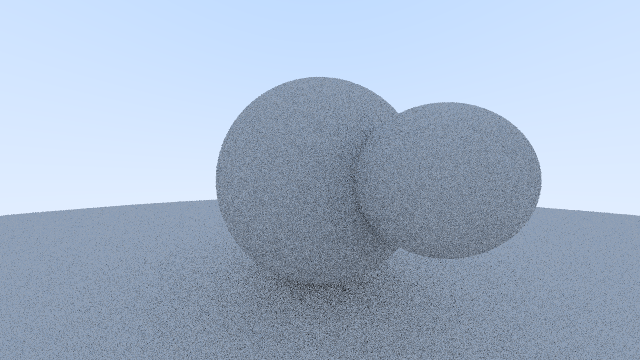
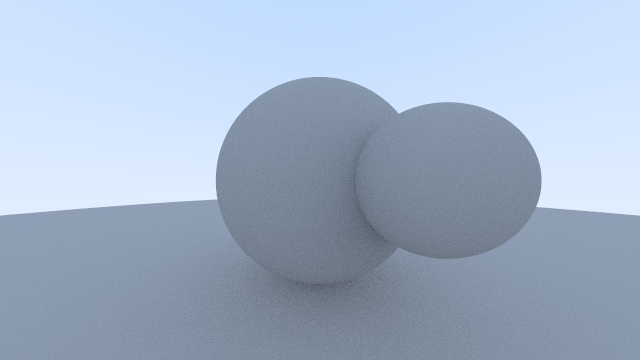
small fixes

diff --git a/source/main.cpp b/source/main.cpp
@@ -9,54 +9,17 @@
 #include "yaml-cpp/yaml.h"
 #include "camera.h"
 
-glm::vec3 random_in_unit_sphere() {
-    while (true) {
-        glm::vec3 p = random_vec3(-1,1);
-        if (glm::dot(p,p) >= 1) continue;
-        return p;
-    }
-
-}
-glm::vec3 random_unit_vector() {
-    //unit vector in glm
-    return glm::normalize(random_in_unit_sphere());
-}
-
-glm::vec3 random_in_hemisphere(const glm::vec3& normal) {
-    glm::vec3 in_unit_sphere = random_in_unit_sphere();
-    if (dot(in_unit_sphere, normal) > 0.0) // In the same hemisphere as the normal
-        return in_unit_sphere;
-    else
-        return -in_unit_sphere;
-}
 
 class RayTracer {
 public:
-    RayTracer(int width, float aspect_ratio)
-        : width(width){
+    RayTracer(int width, float aspect_ratio,int max_depth,int samples_per_pixel)
+        : width(width),max_depth(max_depth),samples_per_pixel(samples_per_pixel){
         height = static_cast<int>((float)width / aspect_ratio);
     }
 
-    void render_old(const hittable_list& world){
-        std::fstream file_out("image.ppm", std::ios::out);
-
-        file_out << "P3\n" << width << ' ' << height << "\n255\n";
-
-        for (int j = height-1; j >= 0; --j) {
-            std::cerr << "\rScanlines remaining: " << j << ' ' << std::flush;
-            for (int i = 0; i < width; ++i) {
-                auto u = double(i) / (width-1);
-                auto v = double(j) / (height-1);
-                ray r(origin, lower_left_corner + (float)u*horizontal + (float)v*vertical);
-                color pixel_color = ray_color(r, world, 0);
-                write_color_old(file_out, pixel_color);
-            }
-        }
-
-    }
     void render(const hittable_list& world){
         std::fstream file_out("image.ppm", std::ios::out);
-        const int max_depth = 50;
+
         camera cam;
 
         file_out << "P3\n" << width << ' ' << height << "\n255\n";
@@ -65,23 +28,29 @@ public:
             std::cerr << "\rScanlines remaining: " << j << ' ' << std::flush;
             for (int i = 0; i < width; ++i) {
                 color pixel_color(0, 0, 0);
-                for (int s = 0; s < 5; ++s) {
-                    auto u = (i + random_double()) / (width-1);
-                    auto v = (j + random_double()) / (height-1);
+                for (int s = 0; s < samples_per_pixel; ++s) {
+                    float u = (float)(i + random_double()) / (float)(width-1);
+                    float v = (float)(j + random_double()) / (float)(height-1);
                     ray r = cam.get_ray(u, v);
                     pixel_color += ray_color(r, world, max_depth);
                 }
-                write_color(file_out, pixel_color, 5);
+                write_color(file_out, pixel_color, samples_per_pixel);
             }
         }
 
     }
 
-    void calculate_camera_and_viewport(float viewport_width,float viewport_height, float focal_length, point3 org){
+    void calculate_camera_and_viewport(
+            float viewport_width,
+            float viewport_height,
+            float focal_length,
+            point3 org
+           ){
         this->origin = org;
         horizontal = glm::vec3(viewport_width, 0, 0);
         vertical = glm::vec3(0, viewport_height, 0);
         lower_left_corner = org - horizontal / 2.0f - vertical / 2.0f - glm::vec3(0, 0, focal_length);
+
     }
 
     color ray_color(const ray& r, const hittable& world,int depth) { // NOLINT(readability-convert-member-functions-to-static)
@@ -89,7 +58,7 @@ public:
 
         // If we've exceeded the ray bounce limit, no more light is gathered.
         if (depth <= 0)
-            return color(0,0,0);
+            return {0,0,0};
 
         if (world.hit(r, 0.001f, infinity, rec)) {
             point3 target = rec.p + random_in_hemisphere(rec.normal);
@@ -103,6 +72,8 @@ public:
 private:
     int width;
     int height;
+    int max_depth;
+    int samples_per_pixel;
     //float aspect_ratio;
     point3 origin = point3(0, 0, 0);
     glm::vec3 horizontal = glm::vec3(4, 0, 0);
@@ -119,9 +90,10 @@ int main() {
 
     const float aspect_ratio = config["ratio"][0].as<float>() / config["ratio"][1].as<float>();
     const int image_width =  config["image_width"].as<int>();
-    const int samples_per_pixel = 100;
+    const int samples_per_pixel = config["samples_per_pixel"].as<int>();
+    const int max_depth = config["max_depth"].as<int>();
 
-    RayTracer tracer(image_width, aspect_ratio);
+    RayTracer tracer(image_width, aspect_ratio,max_depth,samples_per_pixel);
 
     // World
     hittable_list world;

diff --git a/source/rtweekend.h b/source/rtweekend.h
@@ -4,19 +4,23 @@
 
 #ifndef PROJECT_RTWEEKEND_H
 #define PROJECT_RTWEEKEND_H
-#include <cmath>
-#include <limits>
-#include <memory>
 
 // Common Headers
 #include <iostream>
+#include <memory>
 
+// Math Headers
+#include <cmath>
+#include <limits>
 #include <cstdlib>
 #include <random>
 
+// OpenGL Headers
 #include <glm/glm.hpp>
 #include <glm/gtc/matrix_transform.hpp>
+
 // Type aliases for vec3
+
 using point3 = glm::vec3;   // 3D point
 using color = glm::vec3;    // RGB color
 
@@ -34,51 +38,19 @@ const double pi = 3.1415926535897932385;
 
 // Utility Functions
 
-inline double degrees_to_radians(double degrees) {
-    return degrees * pi / 180.0;
-}
+double degrees_to_radians(double degrees);
+double clamp(double x, double min, double max);
 
+//Random number generation
 
-
-/// Returns a random double in [0, 1).
-/// \return a random double in [0, 1)
-inline double random_double() {
-    // Returns a random real in [0,1).
-    return rand() / (RAND_MAX + 1.0);
-}
-/*
-inline double random_double() {
-    static std::uniform_real_distribution<double> distribution(0.0, 1.0);
-    static std::mt19937 generator;
-    return distribution(generator);
-}*/
-
-/// Returns a random double in [a, b).
-/// \param a
-/// \param b
-/// \return
-inline double random_double(double min, double max) {
-    // Returns a random real in [min,max).
-    return min + (max-min)*random_double();
-}
-
-inline double clamp(double x, double min, double max) {
-    if (x < min) return min;
-    if (x > max) return max;
-    return x;
-}
-
-
-inline static glm::vec3 random_vec3() {
-    return {random_double(), random_double(), random_double()};
-}
-
-inline static glm::vec3 random_vec3(double min, double max) {
-    return {random_double(min,max), random_double(min,max), random_double(min,max)};
-}
-
-
-
+double random_double();
+double random_double_modern_cpp();
+double random_double(double min, double max);
+static glm::vec3 random_vec3();
+static glm::vec3 random_vec3(double min, double max);
+glm::vec3 random_in_unit_sphere();
+glm::vec3 random_unit_vector();
+glm::vec3 random_in_hemisphere(const glm::vec3& normal);
 
 
 #endif //PROJECT_RTWEEKEND_H

diff --git a/source/rtweekend.cpp b/source/rtweekend.cpp
@@ -1,0 +1,61 @@
+//
+// Created by mateo on 21.8.22.
+//
+#include "rtweekend.h"
+
+double degrees_to_radians(double degrees) {
+    return degrees * pi / 180.0;
+}
+
+double clamp(double x, double min, double max) {
+    if (x < min) return min;
+    if (x > max) return max;
+    return x;
+}
+
+
+double random_double() {
+    // Returns a random real in [0,1).
+    return rand() / (RAND_MAX + 1.0);
+}
+
+double random_double_modern_cpp() {
+    static std::uniform_real_distribution<double> distribution(0.0, 1.0);
+    static std::mt19937 generator;
+    return distribution(generator);
+}
+
+double random_double(double min, double max) {
+    // Returns a random real in [min,max).
+    return min + (max-min)*random_double();
+}
+
+static glm::vec3 random_vec3() {
+    return {random_double(), random_double(), random_double()};
+}
+
+static glm::vec3 random_vec3(double min, double max) {
+    return {random_double(min,max), random_double(min,max), random_double(min,max)};
+}
+
+
+glm::vec3 random_in_unit_sphere() {
+    while (true) {
+        glm::vec3 p = random_vec3(-1,1);
+        if (glm::dot(p,p) >= 1) continue;
+        return p;
+    }
+}
+
+glm::vec3 random_unit_vector() {
+    //unit vector in glm
+    return glm::normalize(random_in_unit_sphere());
+}
+
+glm::vec3 random_in_hemisphere(const glm::vec3& normal) {
+    glm::vec3 in_unit_sphere = random_in_unit_sphere();
+    if (dot(in_unit_sphere, normal) > 0.0) // In the same hemisphere as the normal
+        return in_unit_sphere;
+    else
+        return -in_unit_sphere;
+}

diff --git a/source/sphere.cpp b/source/sphere.cpp
@@ -25,7 +25,6 @@ bool sphere::hit(const ray& r, double t_min, double t_max, hit_record& rec) cons
     rec.p = r.at(rec.t);
     glm::vec3 outward_normal = (rec.p - center) / (float)radius;
     rec.set_face_normal(r, outward_normal);
-    //rec.normal = (float)(1.0f/radius) * glm::vec3(rec.p - center);
 
     return true;
 }

diff --git a/source/camera.h b/source/camera.h
@@ -11,6 +11,8 @@
 class camera {
 public:
     camera();
+
+    [[nodiscard]]
     ray get_ray(float u, float v) const;
 
 
